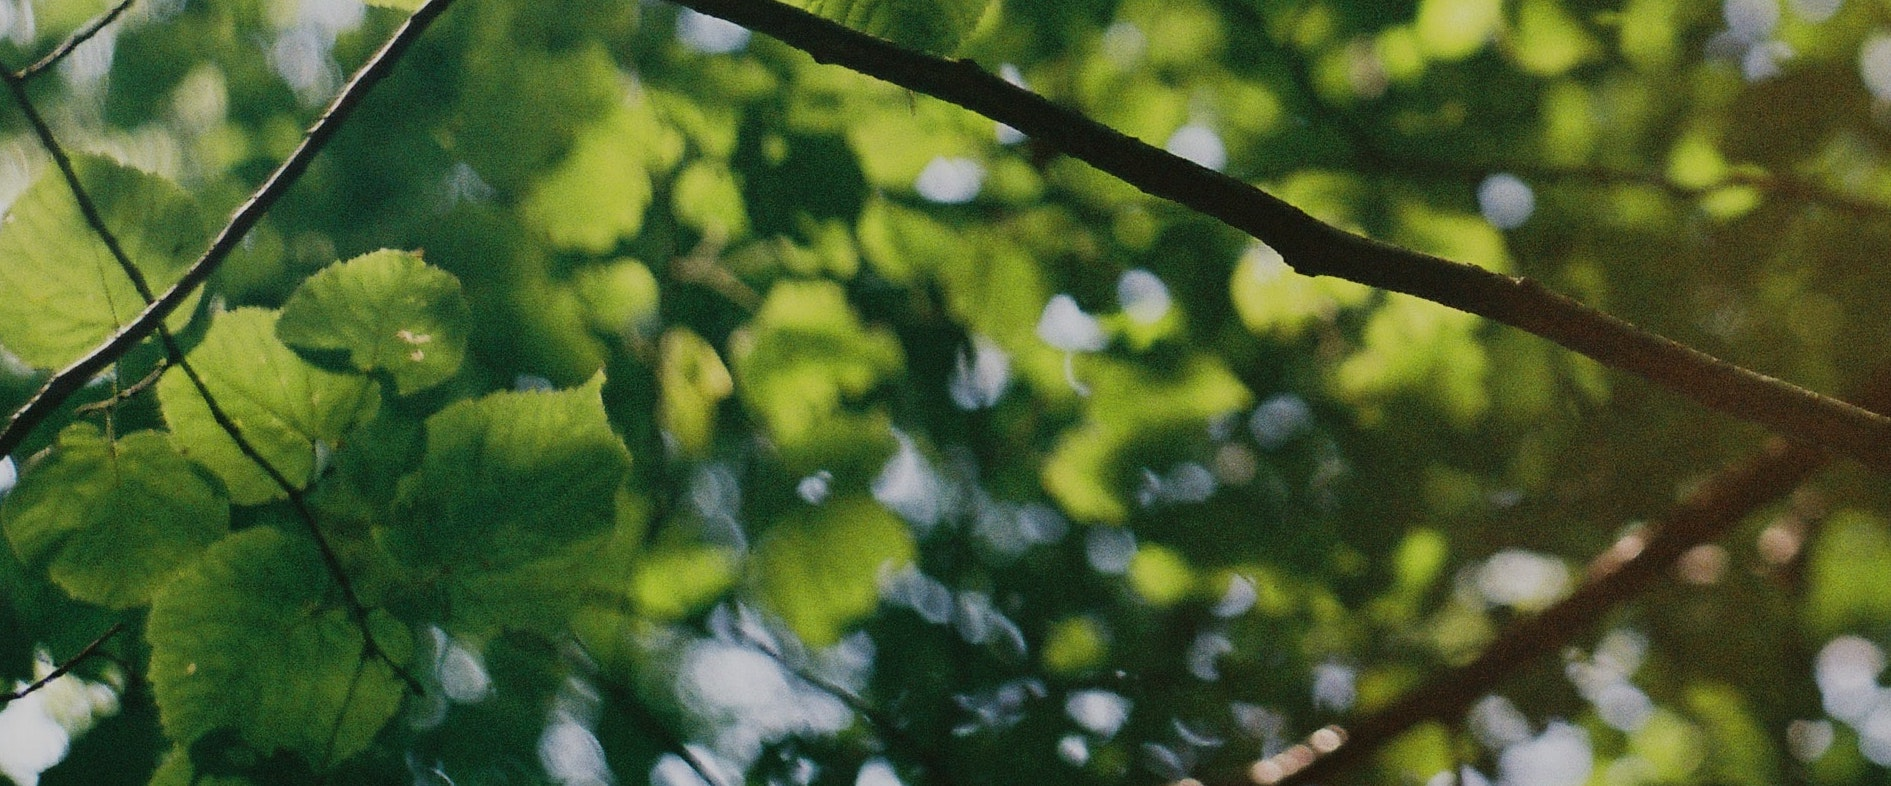
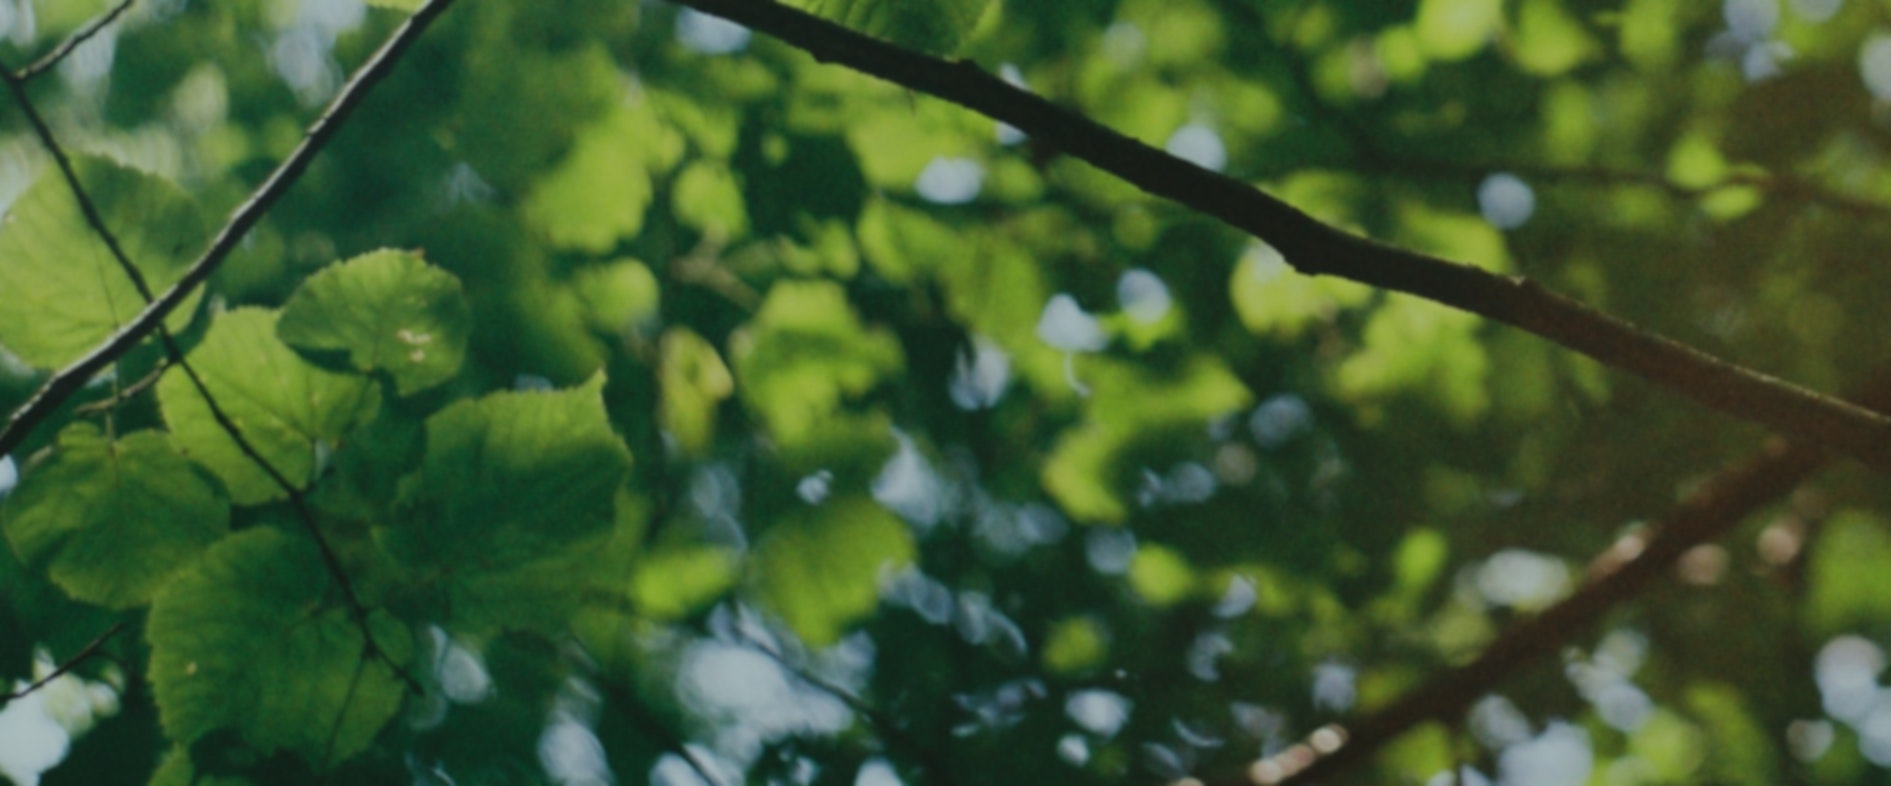
背景画像削除

diff --git a/app/assets/stylesheets/top.scss b/app/assets/stylesheets/top.scss
@@ -7,7 +7,7 @@
   /*background-image: image-url("top-bgi.jpg");
   background-size: cover;*/
   background: rgb(0,153,68);
-  background: linear-gradient(90deg, rgba(0,153,68,1) 0%, rgba(100,216,152,1) 100%);
+  background: linear-gradient(90deg, rgba(0,153,68,1) 0%, rgba(11,68,36,1) 100%);
   min-height: 70vh;
   padding: 7%;
 }
@@ -67,7 +67,6 @@
 
 .about_wrapper h1 {
   font-size: 3rem;
-  margin-bottom: 40px;
 }
 
 .about_inner {
@@ -82,7 +81,8 @@
   max-width: 800px;
   margin-left: auto;
   margin-right: auto;
-  background-color: #64d898;
+  background: rgb(161,244,158);
+  background: linear-gradient(90deg, rgba(161,244,158,1) 0%, rgba(100,216,152,1) 100%);
 }
 
 .about_img img {
